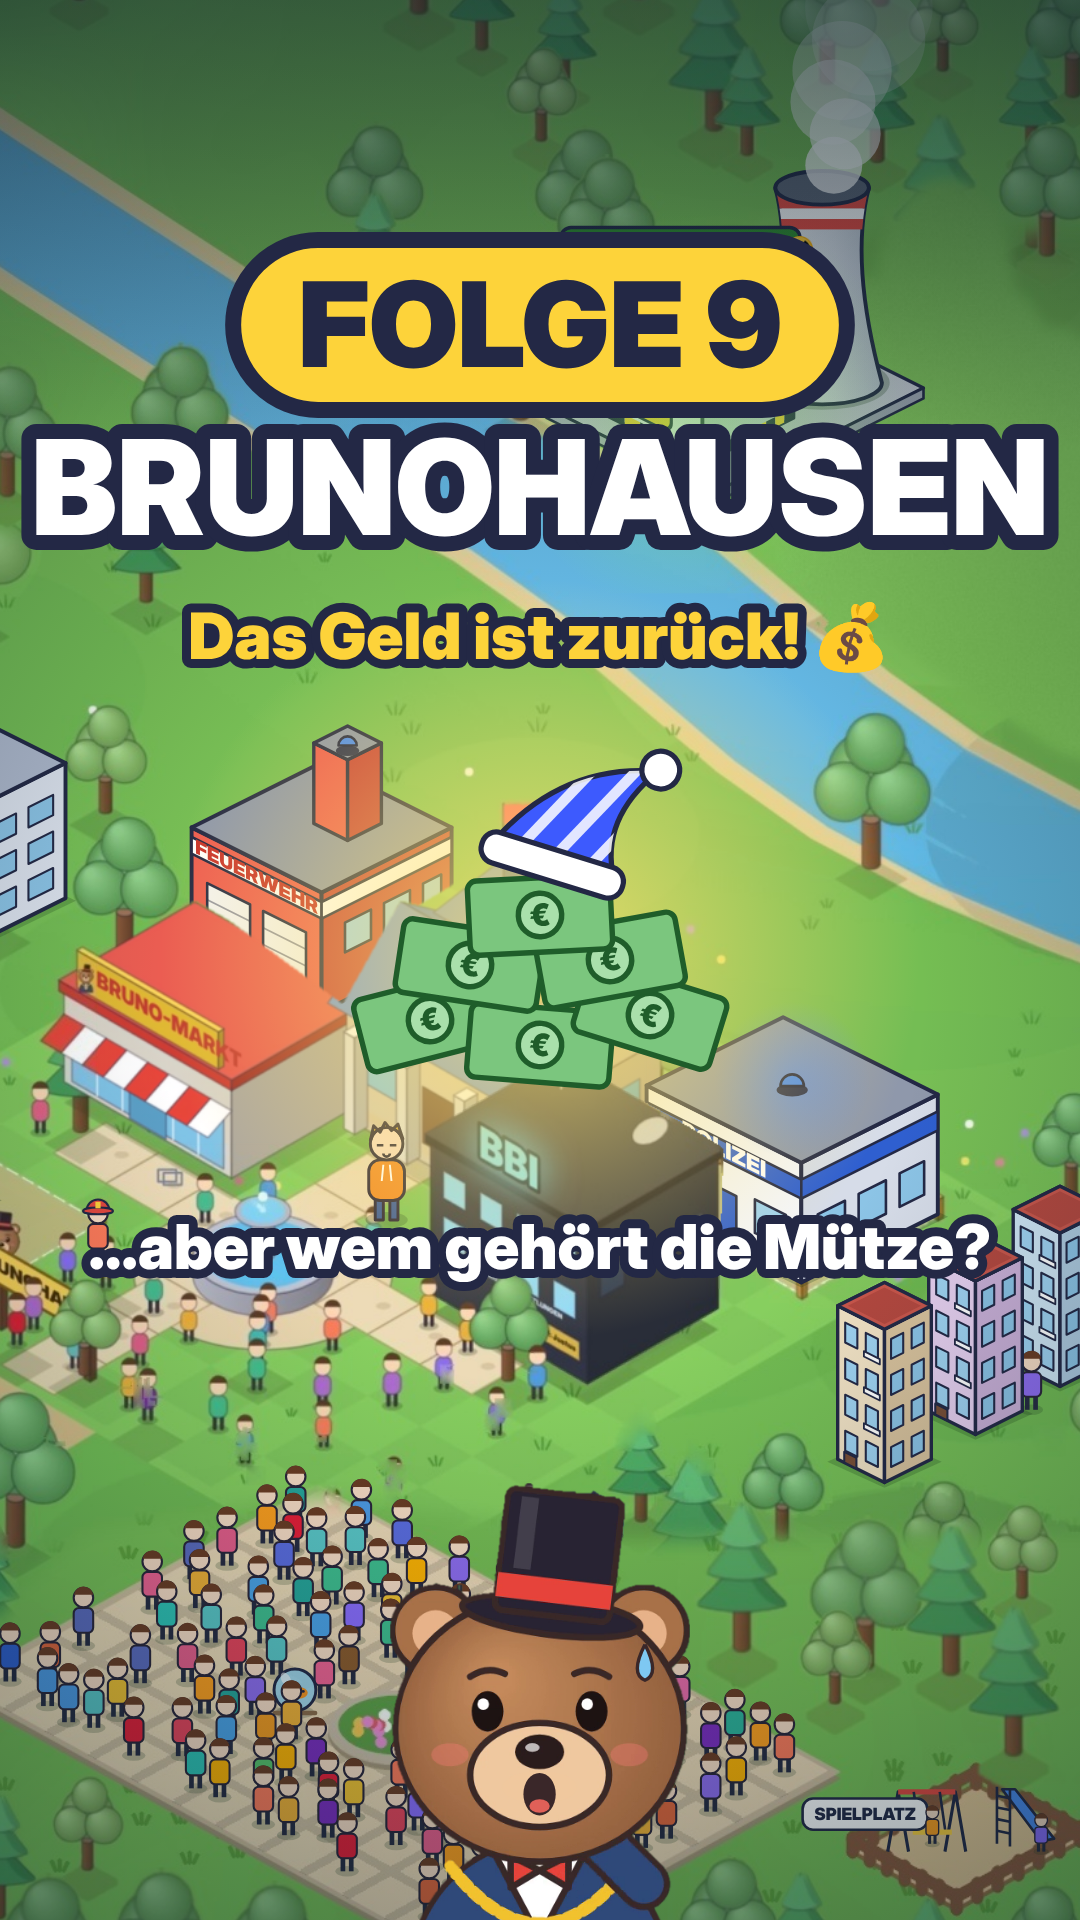
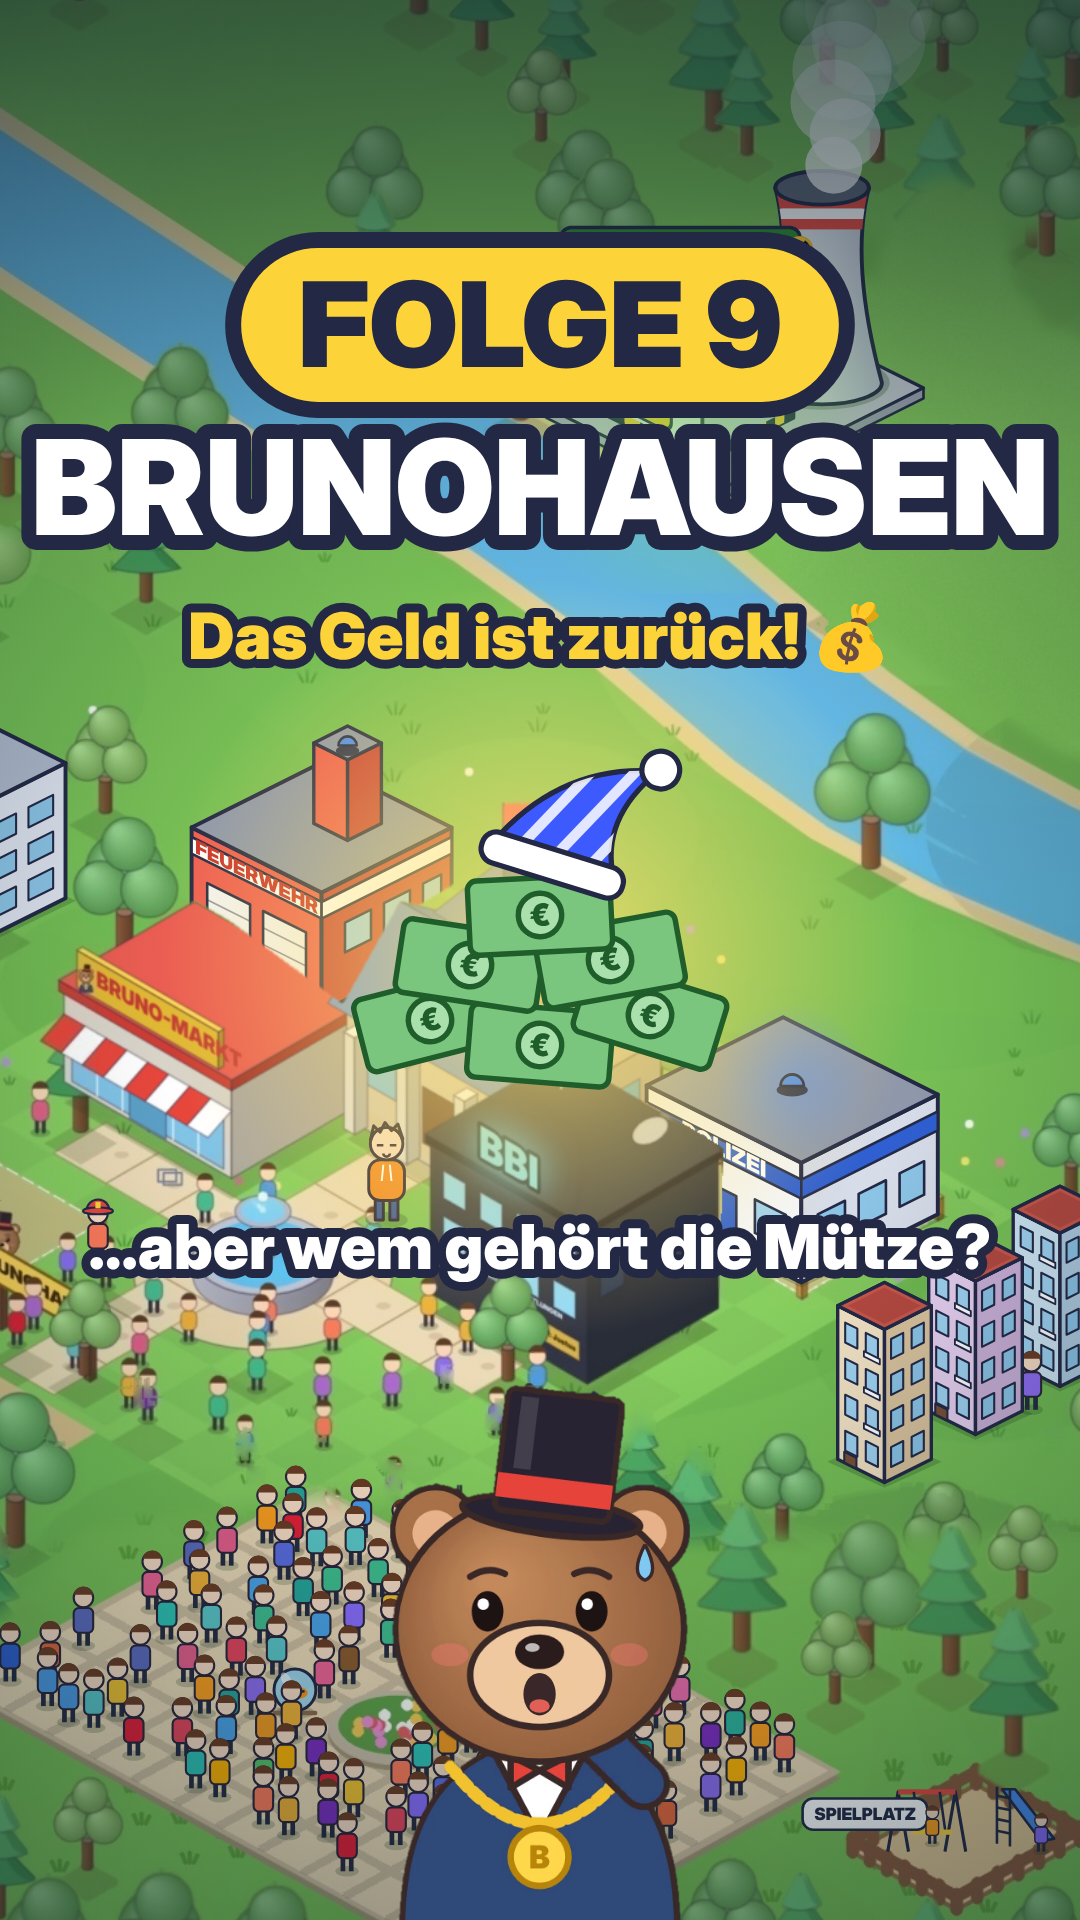
Cover: Bruno etwas höher
Claude-Session: https://claude.ai/code/session_01Pr66hNnRLfcFYWMz66UZwJ

Changed region(s): [[0.3667, 0.7188, 0.6417, 1.0]]

diff --git a/studio/folge9/cover9.js b/studio/folge9/cover9.js
@@ -11,7 +11,7 @@ await pg.evaluate(()=>{
  const gl=ctx.createRadialGradient(540,960,20,540,960,380);gl.addColorStop(0,'rgba(255,225,110,.8)');gl.addColorStop(1,'rgba(255,225,110,0)');ctx.fillStyle=gl;ctx.fillRect(120,560,840,800);
  [[430,1020,-.25],[540,1045,.08],[650,1015,.3],[470,965,.15],[610,960,-.18],[540,915,-.05]].forEach(([x,y,r])=>bill(x,y,r,1.55));
  nightcap(560,840,1.05,0.3);
- bigBruno(540,2050,0.85,true,0,false);
+ bigBruno(540,1950,0.85,true,0,false);
  ctx.save();ctx.font=`900 118px ${F}`;const lab='FOLGE 9';const lw=ctx.measureText(lab).width+130;
  rr(540-lw/2,240,lw,170,85);ctx.fillStyle=YEL;ctx.fill();ctx.lineWidth=16;ctx.strokeStyle=NAVY;ctx.stroke();
  ctx.fillStyle=NAVY;ctx.textAlign='center';ctx.textBaseline='middle';ctx.fillText(lab,540,332);ctx.restore();
